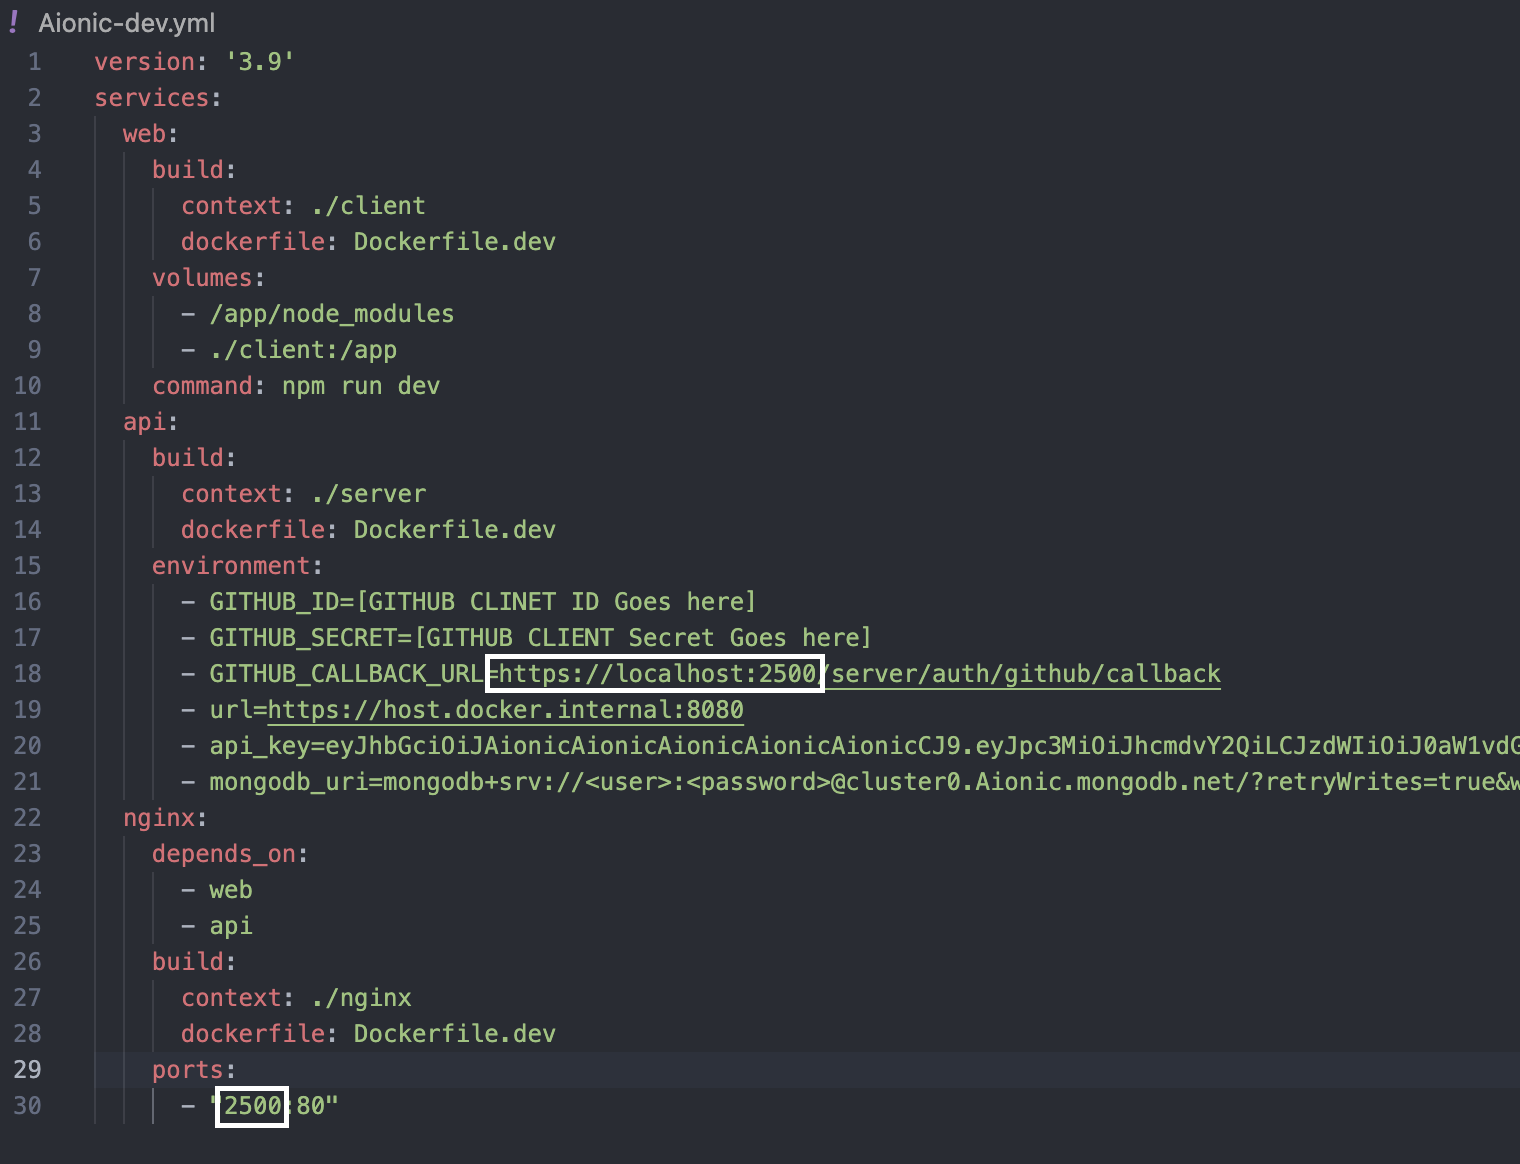
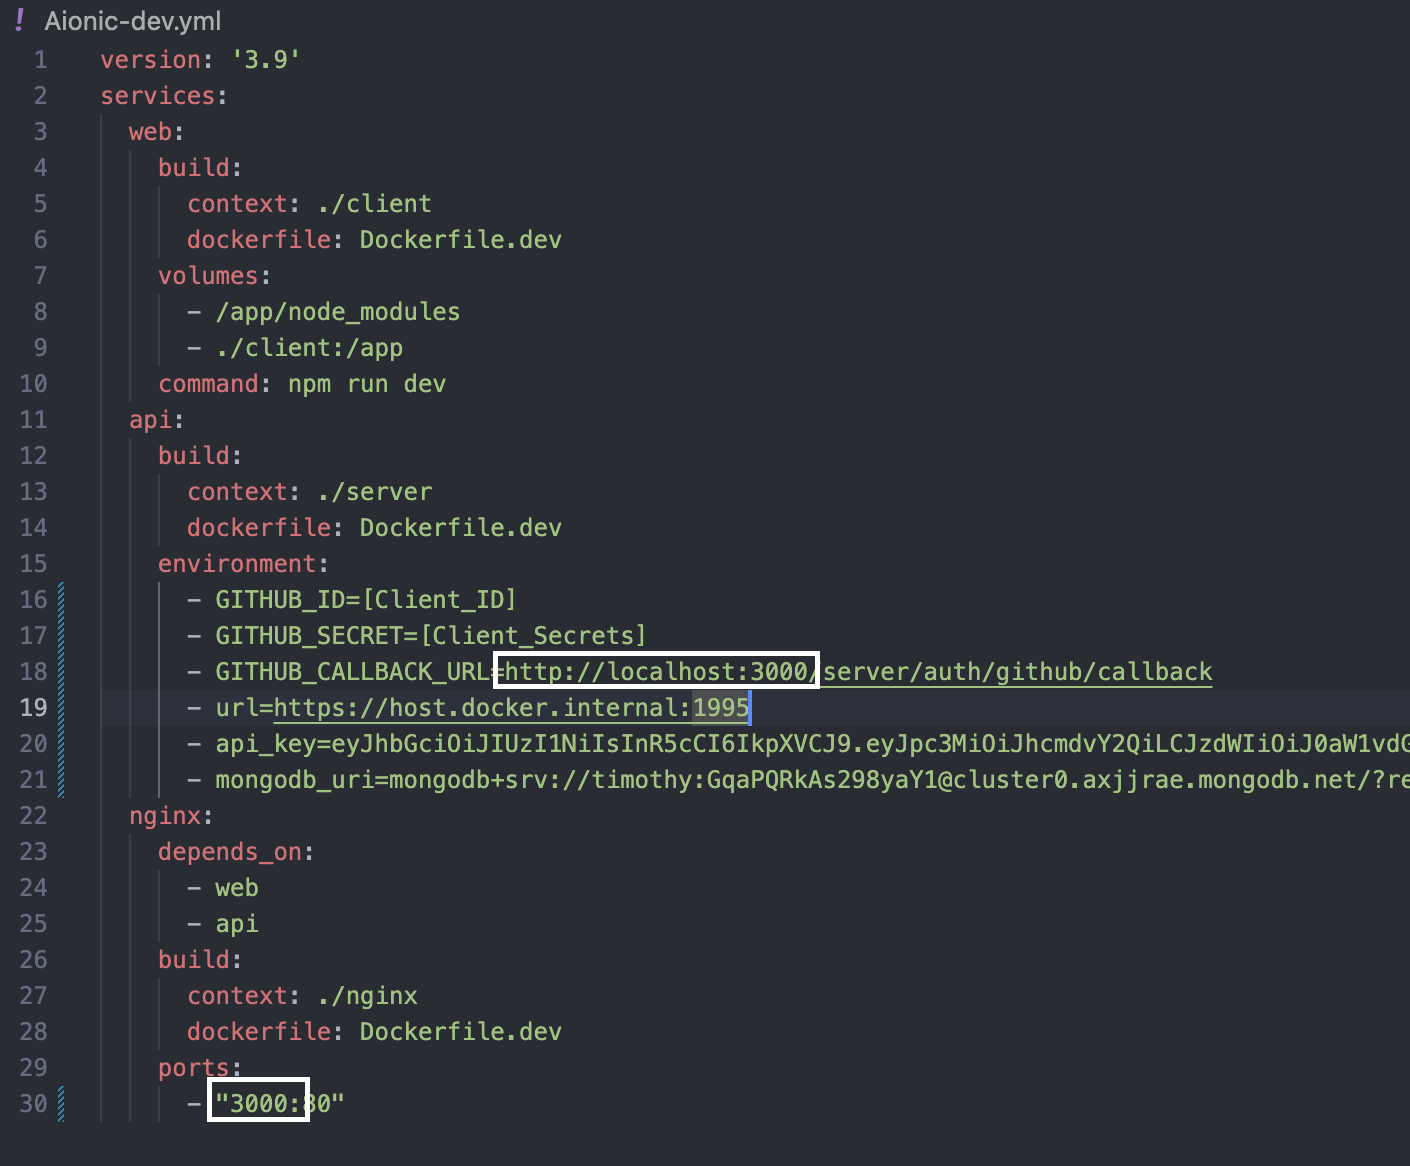
readme update

Changed region(s): [[0.0, 0.0, 1.0, 0.9897], [0.0, 0.2474, 0.0624, 0.9588], [0.0, 0.0619, 0.0312, 0.2165]]

diff --git a/README.md b/README.md
@@ -31,23 +31,25 @@ Clone the repo to your local machine
 ### SET UP YOUR ENVIRONMENT VARIABLES IN Aionic-dev.yml  
 >> The Aionic-dev.yml can be found in root directory of repo  
 - Get Client_ID/Secret and calback url from Github  
-  - Go to github and create new OAuth App  
+  - Go to github setting
+  - Click on github Developer setting on the bottom of the list.
+  - create new OAuth App  
 <img src=./IMG/github_Oauth_app.png width=800px></img>  
   <br>  
-  - callback URL must be forwarded to [www.example.com]**/server/auth/callback**  
+  - callback URL must be forwarded to [http://localhost:3000]**/server/auth/callback**  
   <br>
   <img src=./IMG/img3.png width=900px></img>  
   <br>
   - copy Client_ID and paste it onto Aionic-dev.yml as GITHUB_ID  
   - copy newly generated client secret paste it onto GITHUB_SECRET  
   - copy callback url from previous step paste it onto GITHUB_CALLBACK_URL  
-
 - post your ArgoCD url and api_key to the enviroment variable "url" and api_key under api image in Aionic-dev.yml  
+    ***to access of localhost of host make sure to use host.docker.interal instead of localhost***
 - get your mongoDB uri and paste it to the enviroment variable "mongodb_uri" under api image in Aionic-dev.yml  
 
   <img src=./IMG/img4.png width=700px></img>  
-Make sure  that nginx url is same as github callback url.  
-Since the nginx is only point of entry
+Make sure that nginx url is same as github callback url. 
+Since the nginx is only point of entry  
 ### After done with steps above
   run these lines of command to build and start your docker-container  
 
